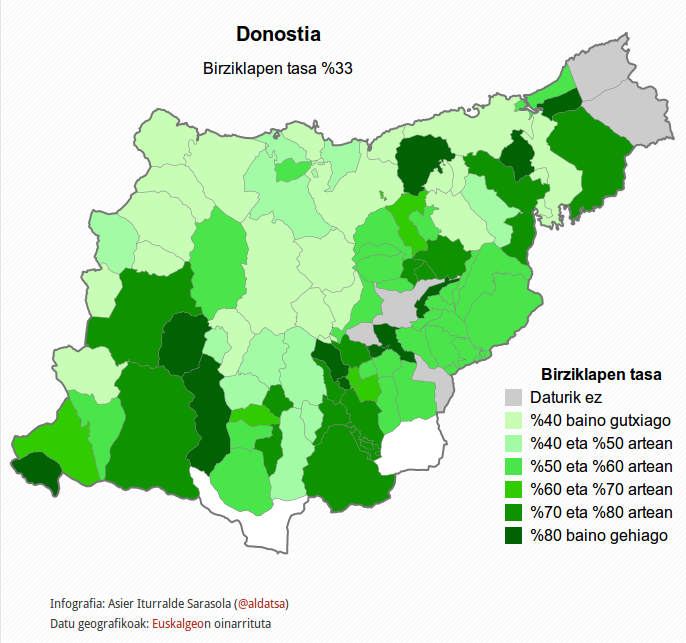
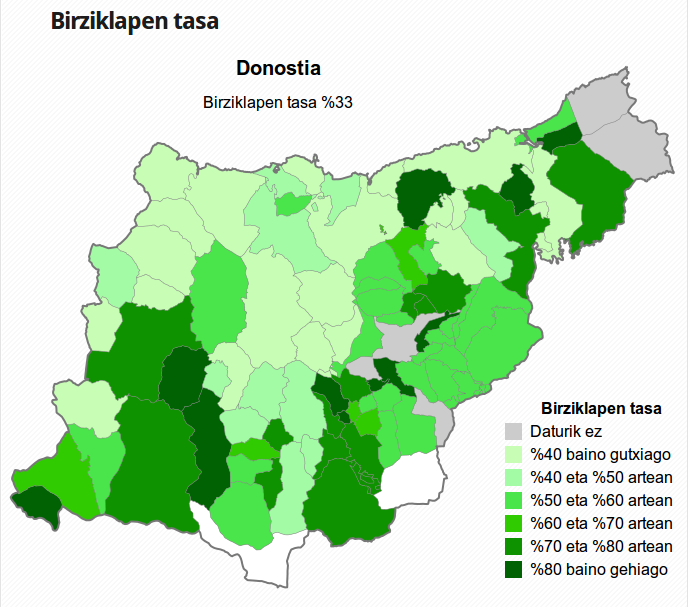
Pantaila-argazkiak gehitu eta README.md eguneratu

diff --git a/README.md b/README.md
@@ -1,4 +1,4 @@
-# Zero Zabor bloga - 2014ko Gipuzkoako herrietako birziklapen tasen bisualizazioa
+# Zero Zabor bloga - 2014ko Gipuzkoako herrietako birziklapen datuen bisualizazioa
 
 ARGIA.eus-eko Zero Zabor blogean argitaratua:
 
@@ -14,7 +14,10 @@ Iturburu-kodeak [GNU General Public License v3](http://www.gnu.org/licenses/gpl.
 
 Hauteskundeetako datuen JSON fitxategiek eta datu geografikoen topoJSON fitxategiek [Creative Commons BY SA](http://creativecommons.org/licenses/by-sa/4.0/) lizentzia dute.
 
-##Pantaila-argazkia
+##Pantaila-argazkiak
 <p align="center">
-  <img src="pantaila-argazkiak/2014-gipuzkoa-birziklapena.png?raw=true" alt="Bisualizazioaren pantaila-argazkia"/>
+  <img src="pantaila-argazkiak/2014-gipuzkoa-errefusa.png?raw=true" alt="Errefusaren bisualizazioaren pantaila-argazkia"/>
+</p>
+<p align="center">
+  <img src="pantaila-argazkiak/2014-gipuzkoa-birziklapena.png?raw=true" alt="Birziklapen tasaren bisualizazioaren pantaila-argazkia"/>
 </p>
